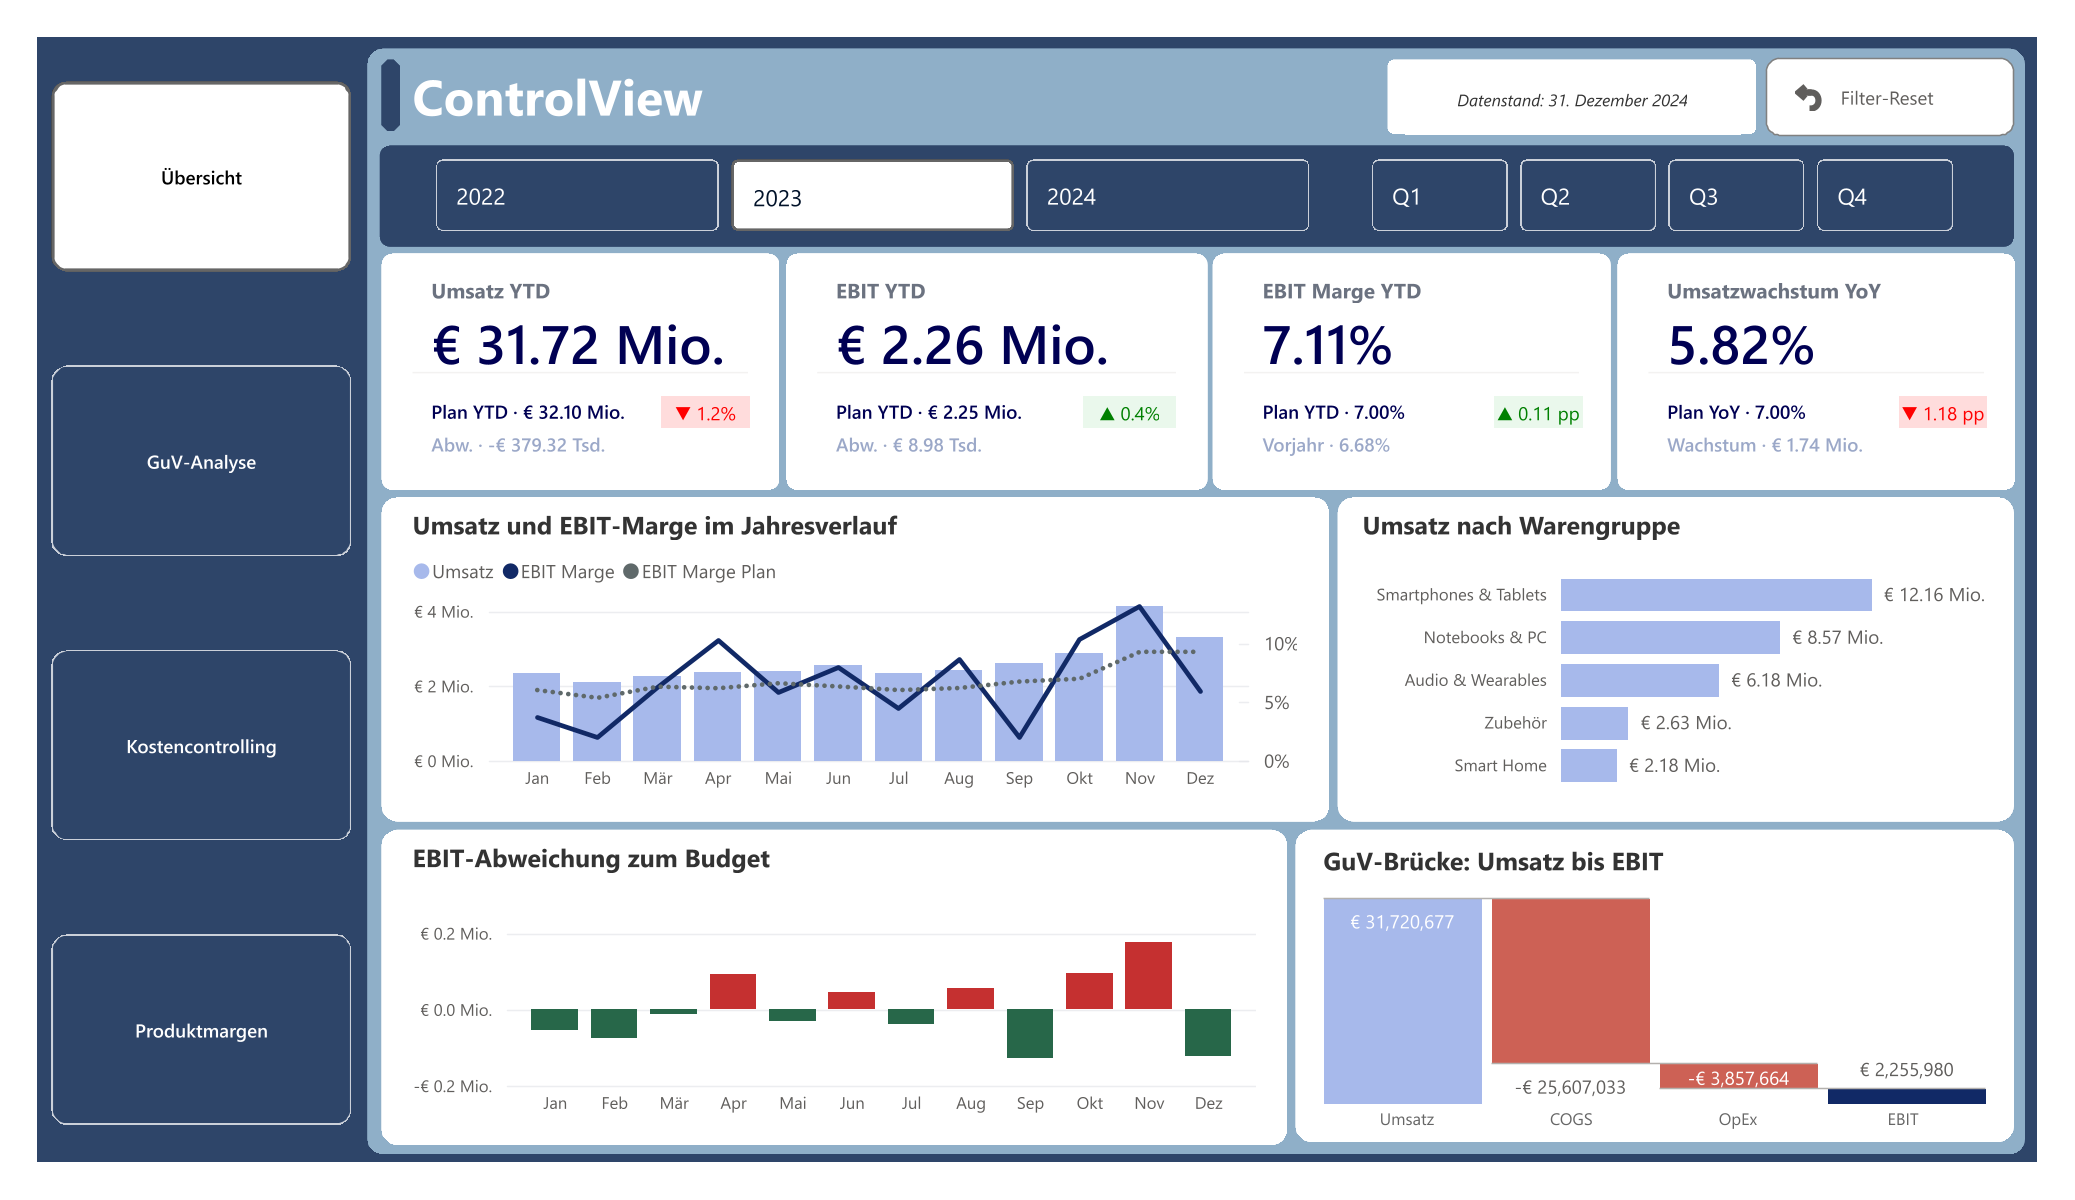
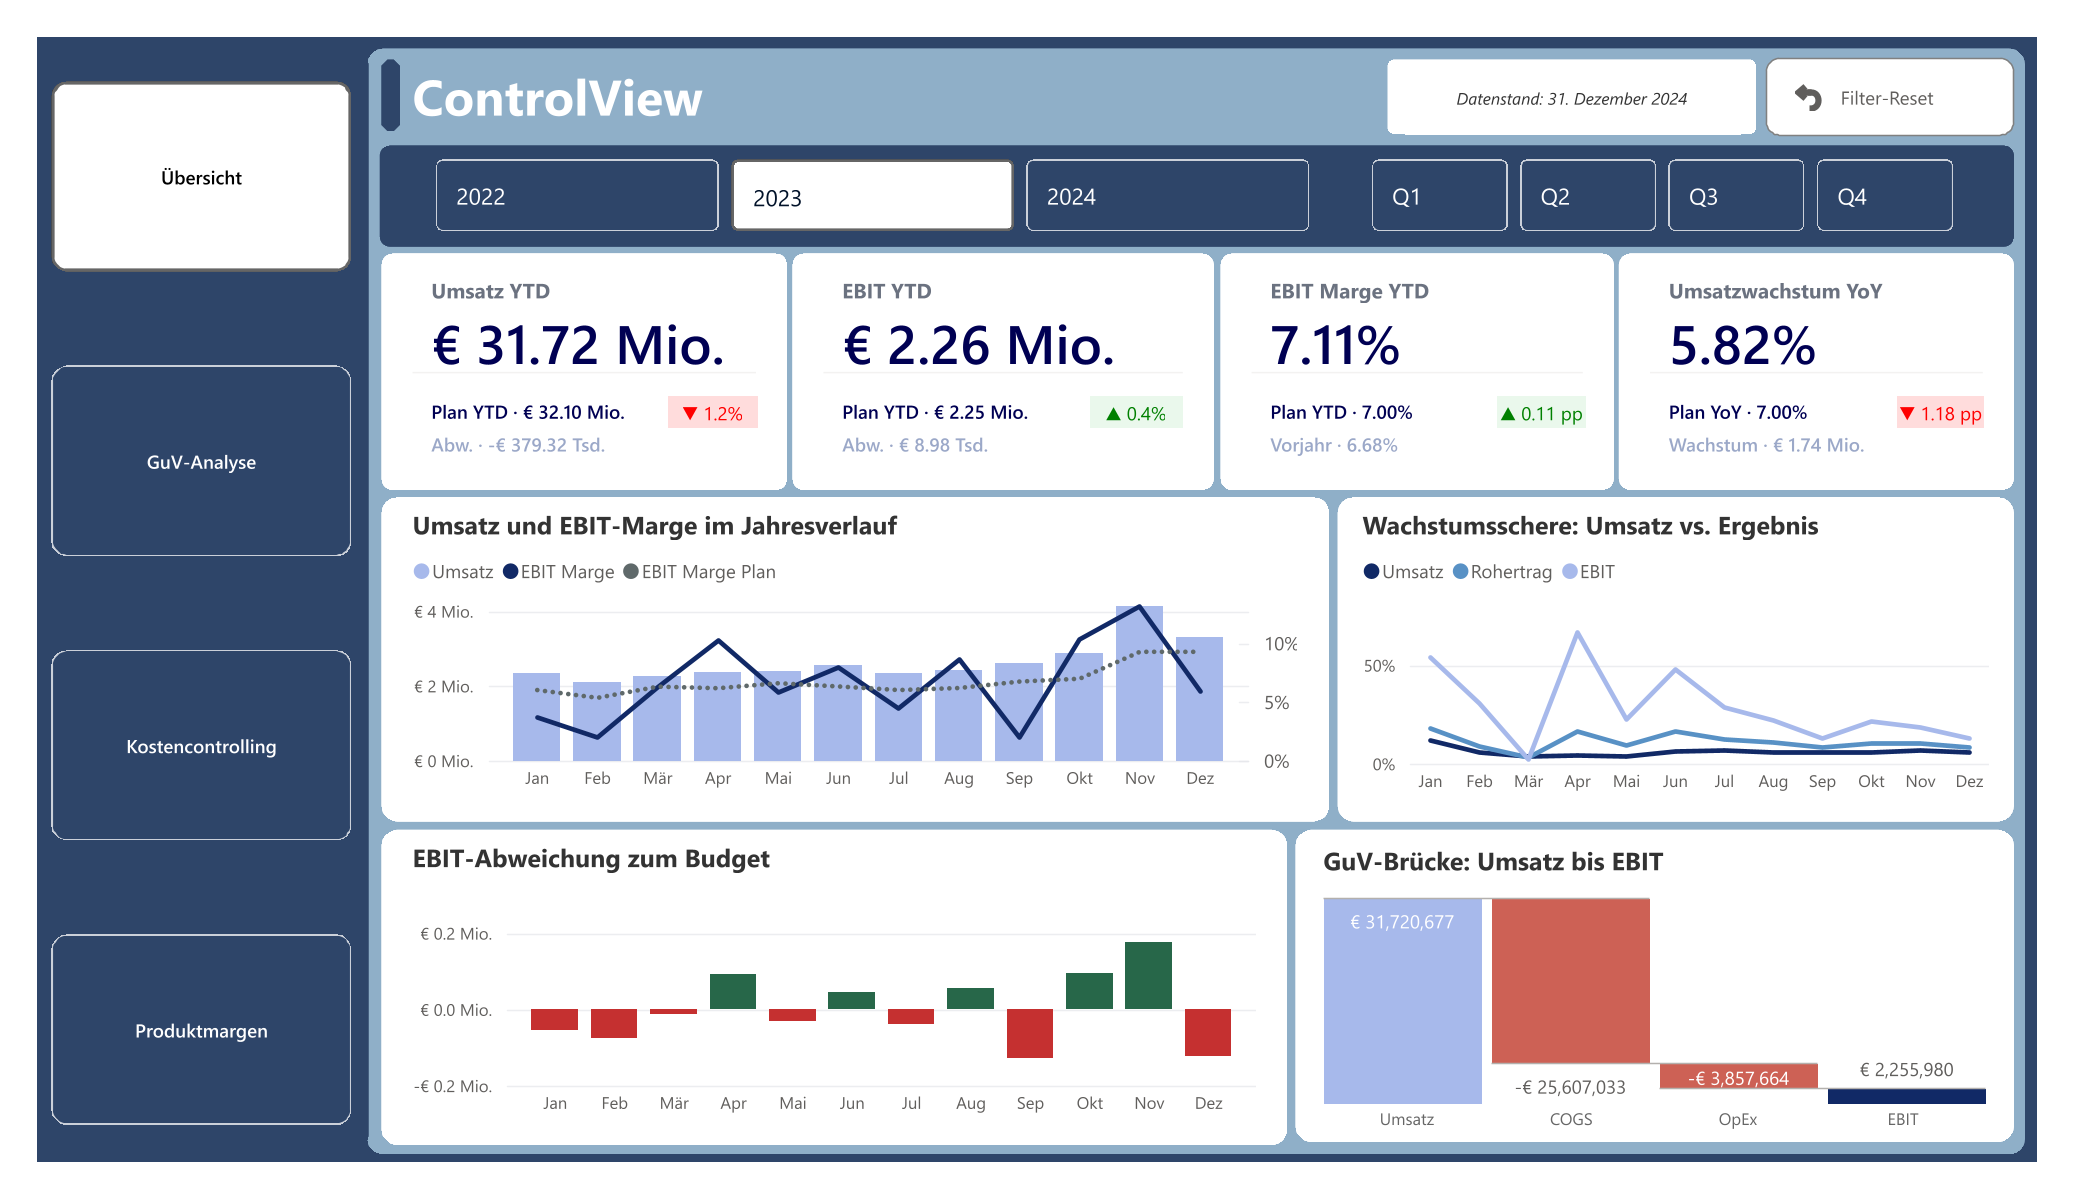
feat: replace revenue by prod-type bar-chart with new line chart (growth yoy - revenue vs result) fix: data correction - normalize 2024 q1 ebit values

diff --git a/scripts/generate_data.py b/scripts/generate_data.py
@@ -347,6 +347,31 @@ def apply_ebit_floor(df, min_margin=0.02):
     return df
 
 
+def apply_q1_2024_correction(df):
+    """
+    2024 Jan-Maerz (Ist) wich durch Zufallsvarianz vom in 2022/2023 etablierten
+    Q1-Saisonmuster ab (Jan/Feb sind strukturell die margenschwaechsten Monate).
+    Skaliert Erloesbuchungen je Monat auf den Durchschnitt des jeweiligen
+    Vorjahresmonats (Ø aus 2022 und 2023), analog zur apply_ebit_floor-Logik.
+    """
+    targets = {1: 0.032, 2: 0.020, 3: 0.0675}   # Ø-Marge aus 2022/2023 je Monat
+    ist_mask = df["szenario"] == "Ist"
+
+    for month, target_margin in targets.items():
+        mask      = ist_mask & (df["geschaeftsjahr"] == 2024) & (df["periode"] == month)
+        rev_mask  = mask & (df["soll_haben"] == "H")
+        cost_mask = mask & (df["soll_haben"] == "S")
+
+        rev_total  = df.loc[rev_mask, "betrag"].sum()
+        cost_total = df.loc[cost_mask, "betrag"].sum()
+
+        target_rev = cost_total / (1 - target_margin)
+        scale      = target_rev / rev_total
+        df.loc[rev_mask, "betrag"] = (df.loc[rev_mask, "betrag"] * scale).round(2)
+
+    return df
+
+
 if __name__ == "__main__":
     log = logging.getLogger(__name__)
 
@@ -364,6 +389,7 @@ if __name__ == "__main__":
 
     df_bj = generate_buchungsjournal()
     df_bj = apply_ebit_floor(df_bj, min_margin=0.02)
+    df_bj = apply_q1_2024_correction(df_bj)
     df_bj.to_csv(OUTPUT_DIR / "buchungsjournal.csv", index=False)
     log.info("buchungsjournal.csv     %d rows", len(df_bj))
 

diff --git a/README.md b/README.md
@@ -167,9 +167,9 @@ Beantwortet die Frage, wie sich das Geschäft im gewählten Zeitraum insgesamt e
 
 Beantwortet, auf welcher Kontozeile und in welchem Monat eine Abweichung zum Plan entsteht: nicht nur, dass das EBIT abweicht (Seite 1), sondern wo genau. Zwei Ansichten über einen Umschalter erreichbar: relative Abweichung in % und absolute Abweichung in €.
 
-![GuV-Analyse](docs/images/dashboard/page2_guv-analyse-relativ.png)
+![GuV-Analyse](docs/images/dashboard/page2a_guv-analyse-relativ.png)
 
-![GuV-Analyse absolut](docs/images/dashboard/page2_guv-analyse-absolut.png)
+![GuV-Analyse absolut](docs/images/dashboard/page2b_guv-analyse-absolut.png)
 
 ### Seite 3: Kostencontrolling
 